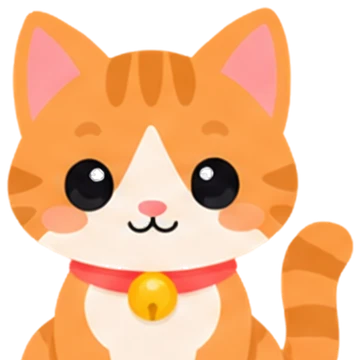
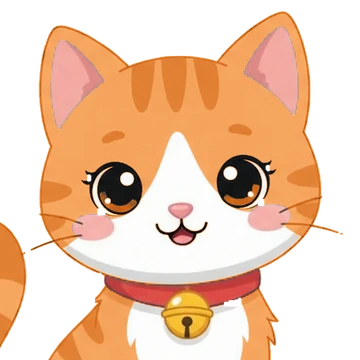
Make the Gemini cat the official cat (v2)
- Avatars for all 4 coats cut from the cat video (tools/art/cat_avatars.py)
- v2 reference masters for ChatGPT in docs/art/gpt-cat/source/v2/
- Remove the unused v1 static stage images; mark cat_assets.py legacy
- docs/art/CAT_V2_REDRAW.md lists the scenes and badges ChatGPT must redraw

Claude-Session: https://claude.ai/code/session_01FadyXk4GTkG51z9fMbnELQ

diff --git a/tools/art/cat_avatars.py b/tools/art/cat_avatars.py
@@ -1,0 +1,22 @@
+"""Cat v2 (the Gemini cat, owner-approved 31 Oct): reference masters + in-app avatars.
+Usage (repo root): python3 tools/art/cat_avatars.py
+Writes docs/art/gpt-cat/source/v2/master_<coat>.png (transparent, for ChatGPT as the reference)
+and assets/pets/cat/avatar_<coat>.webp, cut from a frame of docs/art/gpt-cat/videos/idle.mp4
+with the same key and recolor as the clips (tools/art/clips.py)."""
+import numpy as np, subprocess, os, sys
+from PIL import Image
+src=open('tools/art/clips.py').read()
+os.environ['SPECIES']='cat'; sys.argv=['x','/tmp/cat_avatars']
+exec(src[:src.index('manifest={}')])
+FLOOR=653
+subprocess.run(['ffmpeg','-v','error','-y','-ss','0.5','-i','docs/art/gpt-cat/videos/idle.mp4','-frames:v','1','/tmp/cat_avatar_src.png'],check=True)
+f=np.array(Image.open('/tmp/cat_avatar_src.png').convert('RGB')); a=key_cat(f)
+os.makedirs('docs/art/gpt-cat/source/v2',exist_ok=True)
+ys,xs=np.where(a>10); y0,y1,x0,x1=ys.min(),ys.max(),xs.min(),xs.max()
+for pal in ['tabby','ginger','tuxedo','cream']:
+    im=Image.fromarray(np.dstack([cat_recolor(f,pal),a])).crop((x0-20,y0-20,x1+20,y1+20))
+    im.save(f'docs/art/gpt-cat/source/v2/master_{pal}.png')
+    al=np.array(im)[:,:,3]; ys2,_=np.where(al>100); top=ys2.min(); H=ys2.max()-top
+    hh=int(H*0.56); cx=int(np.median(np.where(al[top+int(hh*0.5)]>100)[0])); side=int(hh*1.32)
+    im.crop((cx-side//2,top-14,cx-side//2+side,top-14+side)).resize((360,360),Image.LANCZOS).save(f'assets/pets/cat/avatar_{pal}.webp','WEBP',quality=90)
+print('ok')

diff --git a/tools/art/cat_assets.py b/tools/art/cat_assets.py
@@ -1,4 +1,5 @@
-"""Build the in-app cat from GPT's cat sheet (docs/art/gpt-cat/source/coat_*.png, upscaled 4x with EDSR).
+"""LEGACY (v1 Tabby, replaced 31 Oct by the Gemini cat — see cat_avatars.py and clips.py SPECIES=cat).
+Build the in-app cat from GPT's cat sheet (docs/art/gpt-cat/source/coat_*.png, upscaled 4x with EDSR).
 Writes assets/pets/cat/: coat images on one shared canvas, gray sketch versions, collar color overlays, avatars."""
 import cv2, numpy as np, json, os
 from PIL import Image

diff --git a/docs/art/ART_QUEUE.md b/docs/art/ART_QUEUE.md
@@ -26,7 +26,7 @@ One shared checklist. **Owner** does the work, then ticks the box in the same PR
 | [x] | Cat master, full body, sitting, front (from ChatGPT's cat sheet, EDSR 4× upscale) | ChatGPT → Claude | `docs/art/gpt-cat/source/master.png` |
 | [x] | Cat video start frames idle/eat/drink/play/litter (same framing as the dog videos) | Claude | `docs/art/gpt-cat/start-frames/*.png` |
 | [x] | Cat in app: 4 coats + sketch + collar colors + avatars | Claude | `assets/pets/cat/` |
-| [x] | Clips batch 1: idle, celebrate, eat (31 Oct) — in app for all 4 coats + 5 collars. **Note:** Gemini drew its own cat (slimmer, eyelashes, white paws), not the Tabby start frame; accepted by the owner. Static cat art (avatars, scenes) still shows the original Tabby | Gemini → Claude | `docs/art/gpt-cat/videos/{idle,celebrate,eat}.mp4` → `assets/pets/cat/clips/` |
+| [x] | Clips batch 1: idle, celebrate, eat (31 Oct) — in app for all 4 coats + 5 collars. **Note:** Gemini drew its own cat (slimmer, eyelashes, white paws), not the Tabby start frame; **adopted by the owner as the official cat (v2)**; avatars done; ChatGPT redraws of scenes and badges listed in `docs/art/CAT_V2_REDRAW.md` | Gemini → Claude | `docs/art/gpt-cat/videos/{idle,celebrate,eat}.mp4` → `assets/pets/cat/clips/` |
 | [ ] | Clips batch 2: drink, play, groom (lick paw), litter, then hello, sleep, idle2 — **use the same cat as batch 1** (attach a frame of `idle.mp4` as the start image). Until then these cares play `celebrate` | Gemini → Claude | `docs/art/gpt-cat/videos/*.mp4`, prompts in `docs/art/gpt-cat/GEMINI_PROMPTS.md` |
 
 ## Static illustrations wired into the app (brief §3)
@@ -43,7 +43,7 @@ Reviewed in `docs/art/ILLUSTRATION_AUDIT_01_02.md`: 15 scenes in the app (4× up
 
 ## Batch 2 — engagement & paywall (slots already wired in `src/ui/art.ts`; the app shows a fallback until each file lands)
 
-Style for all: the approved Pavurio dog (`docs/art/gpt-dog/source/master_b.png`) and cat (`docs/art/gpt-cat/source/master.png`) exactly — same proportions, line, palette (honey dog with teal bandana, grey tabby cat with red collar), soft cel shading, **transparent PNG, no text, no frame, no drop shadow box**. Make them with image generation, never by drawing shapes in code.
+Style for all: the approved Pavurio dog (`docs/art/gpt-dog/source/master_b.png`) and cat (**v2**: `docs/art/gpt-cat/source/v2/master_tabby.png`) exactly — same proportions, line, palette (honey dog with teal bandana, slim grey tabby cat with white muzzle/chest/paws and a red collar with a gold bell), soft cel shading, **transparent PNG, no text, no frame, no drop shadow box**. Make them with image generation, never by drawing shapes in code.
 
 | Done | Item | Path | Spec |
 |---|---|---|---|

diff --git a/docs/art/CAT_V2_REDRAW.md b/docs/art/CAT_V2_REDRAW.md
@@ -1,0 +1,23 @@
+# Cat v2: bring every drawing in line with the new cat
+
+On 31 Oct the owner approved Gemini's cat (from the first cat videos) as **the** Pavurio cat, replacing the round-faced v1 Tabby.
+
+## Reference (attach these to every request)
+- `docs/art/gpt-cat/source/v2/master_tabby.png`: the cat, transparent, full body
+- `docs/art/gpt-cat/source/v2/master_{ginger,tuxedo,cream}.png`: the other coats (in-app only; drawings use tabby)
+- `docs/art/gpt-cat/start-frames/v2_idle.png`: the same cat in its video framing
+
+**Character:** slim grey tabby kitten with darker grey stripes, a white muzzle, chest and paws, pink inner ears, pink cheeks, big glossy black eyes with small lashes, thin whiskers, and a **red collar with a gold bell**. The dog (Honey) is unchanged.
+
+## Done in the app (Claude)
+- Home, onboarding and every pet stage: the animated cat (all coats and collars)
+- Pet avatars (quick-add row, pet switcher): cut from the video (`tools/art/cat_avatars.py`)
+
+## To redraw (ChatGPT): same scene, same size and transparency, only the cat swapped for v2
+| File | What it shows |
+|---|---|
+| `assets/art/scenes/{appointments,bath,bed,brushing,duo,meals,medication,moments,night,play,premium,records,trophy,vaccine,vet,walk,water,weigh}.webp` | 18 scene cards with Honey and the cat (also used for the challenge and tip art) |
+| `assets/art/badges/{family,moment,streak3,streak7}.webp` | 4 medals that include the cat |
+| litter scene (still pending) | the cat proudly next to a clean litter tray with a scoop, **v2 cat** |
+
+Deliver as before: high-resolution PNG sheets or single images on a PR. Claude reviews against the v2 reference and integrates.
